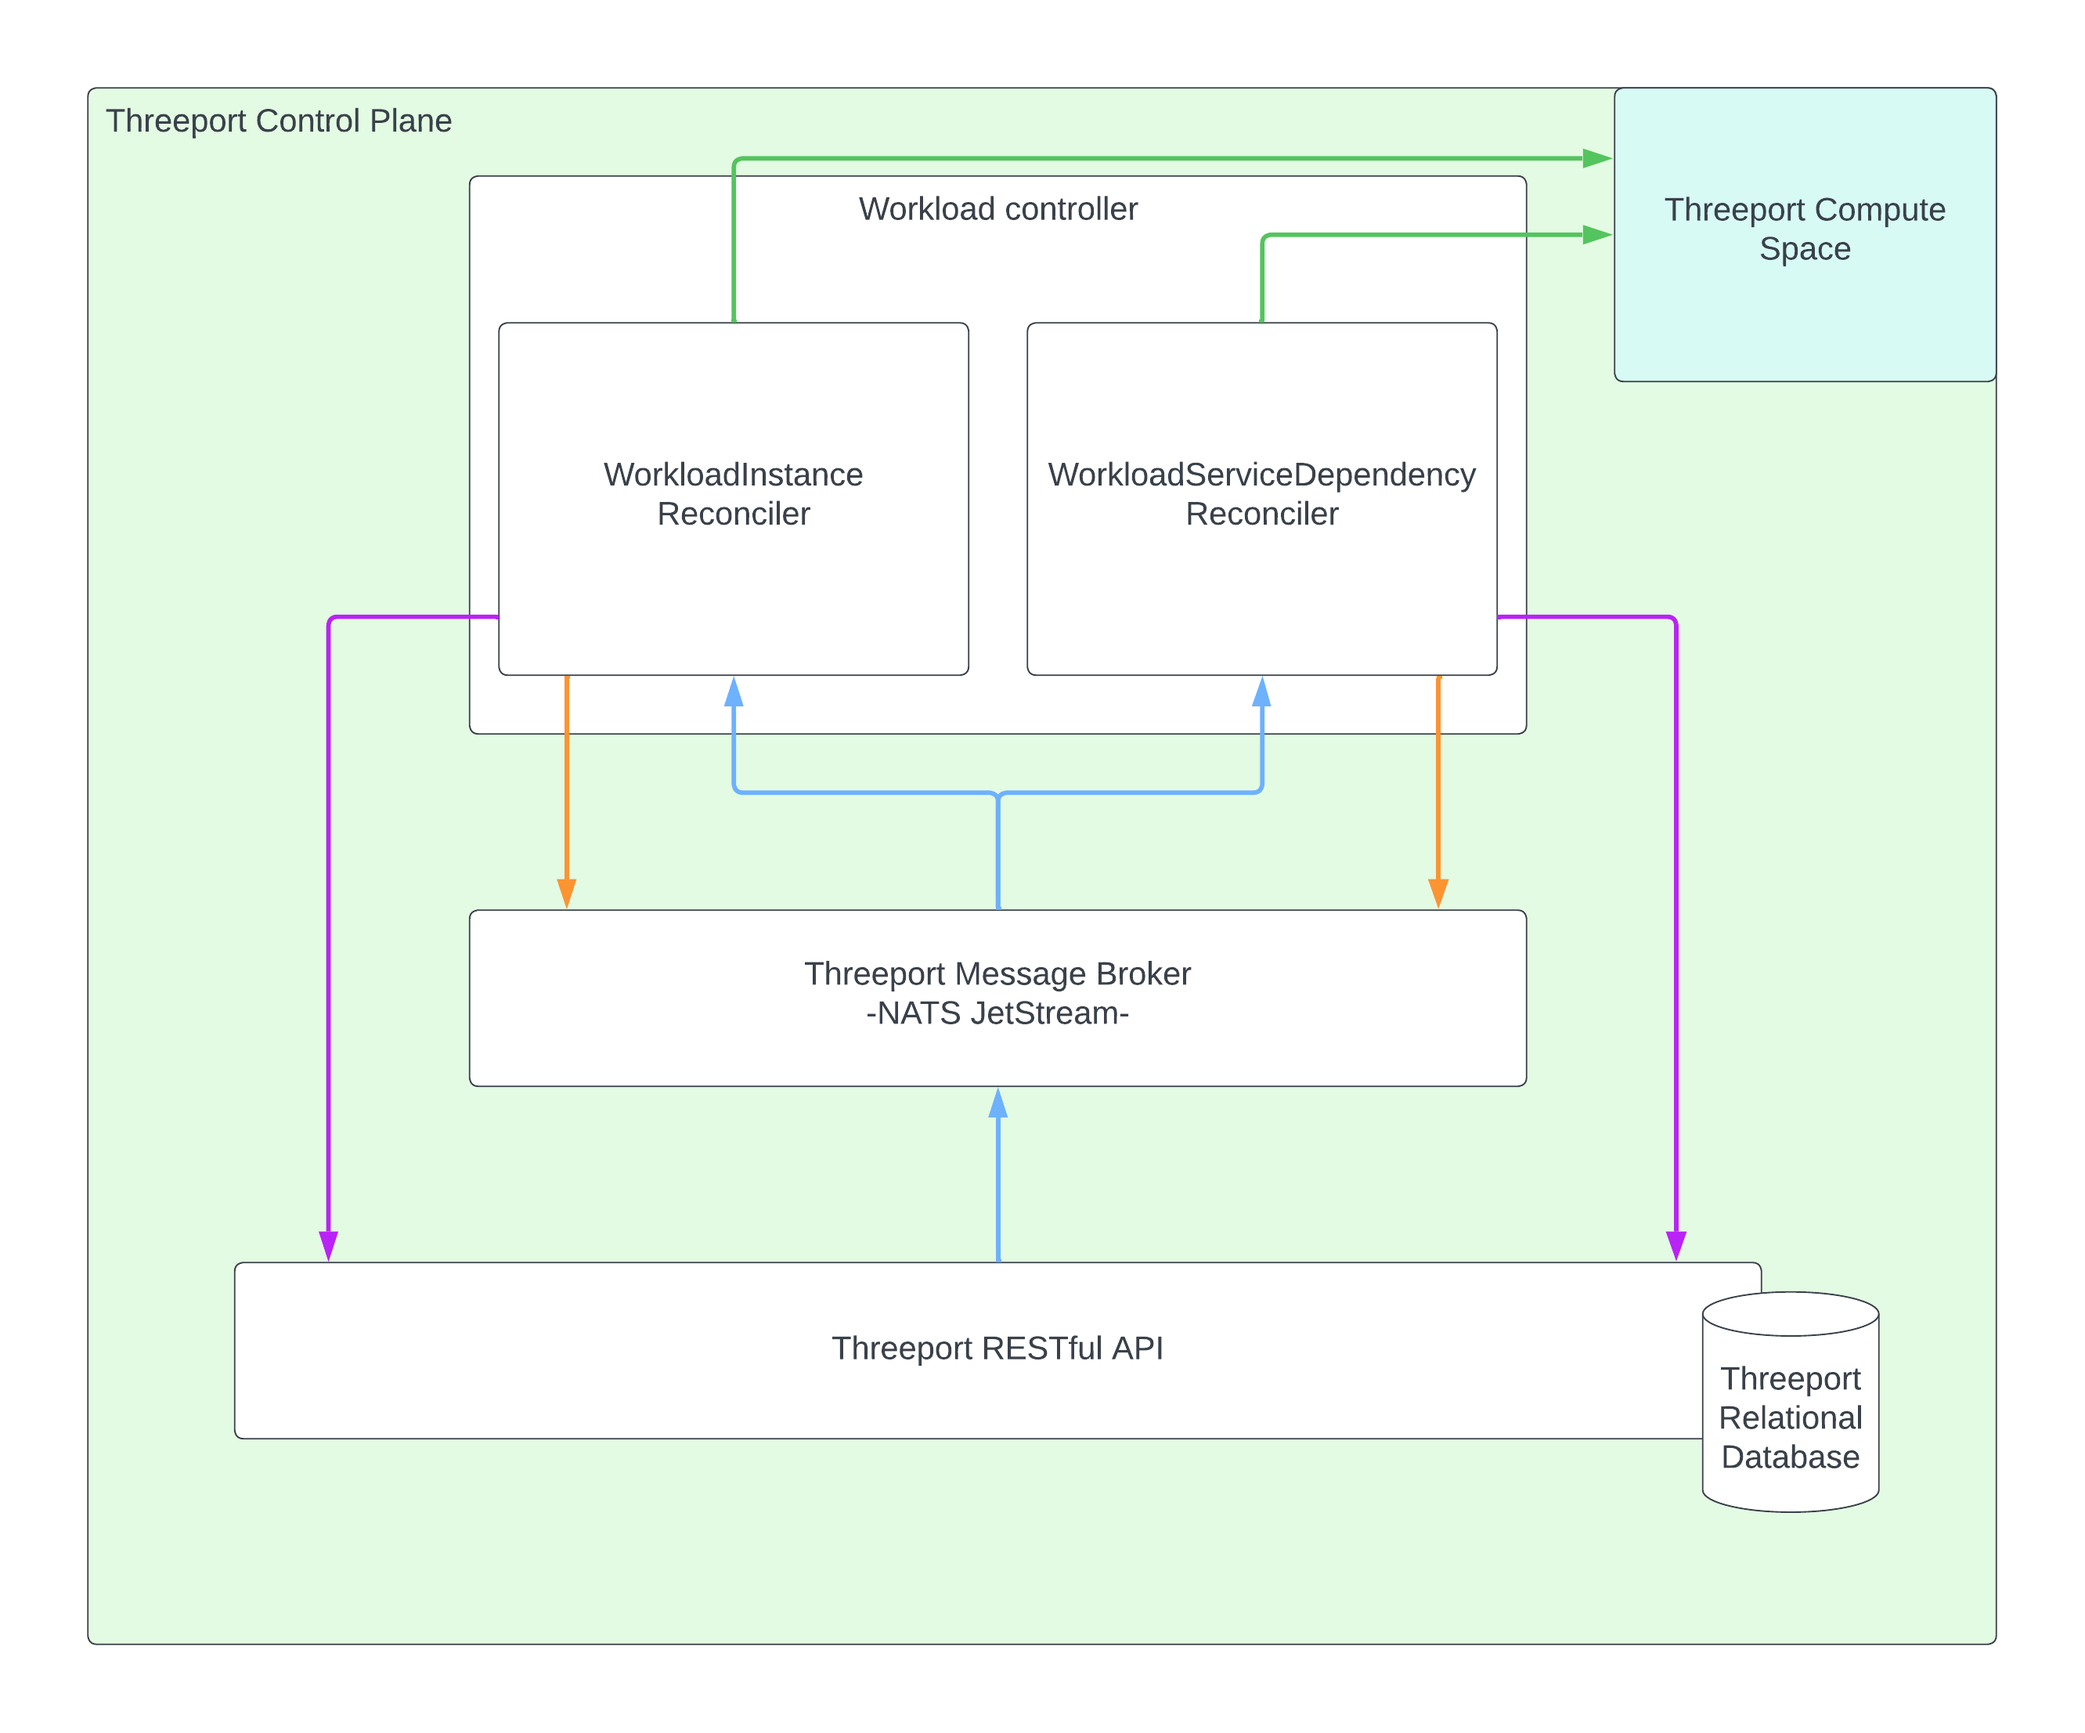
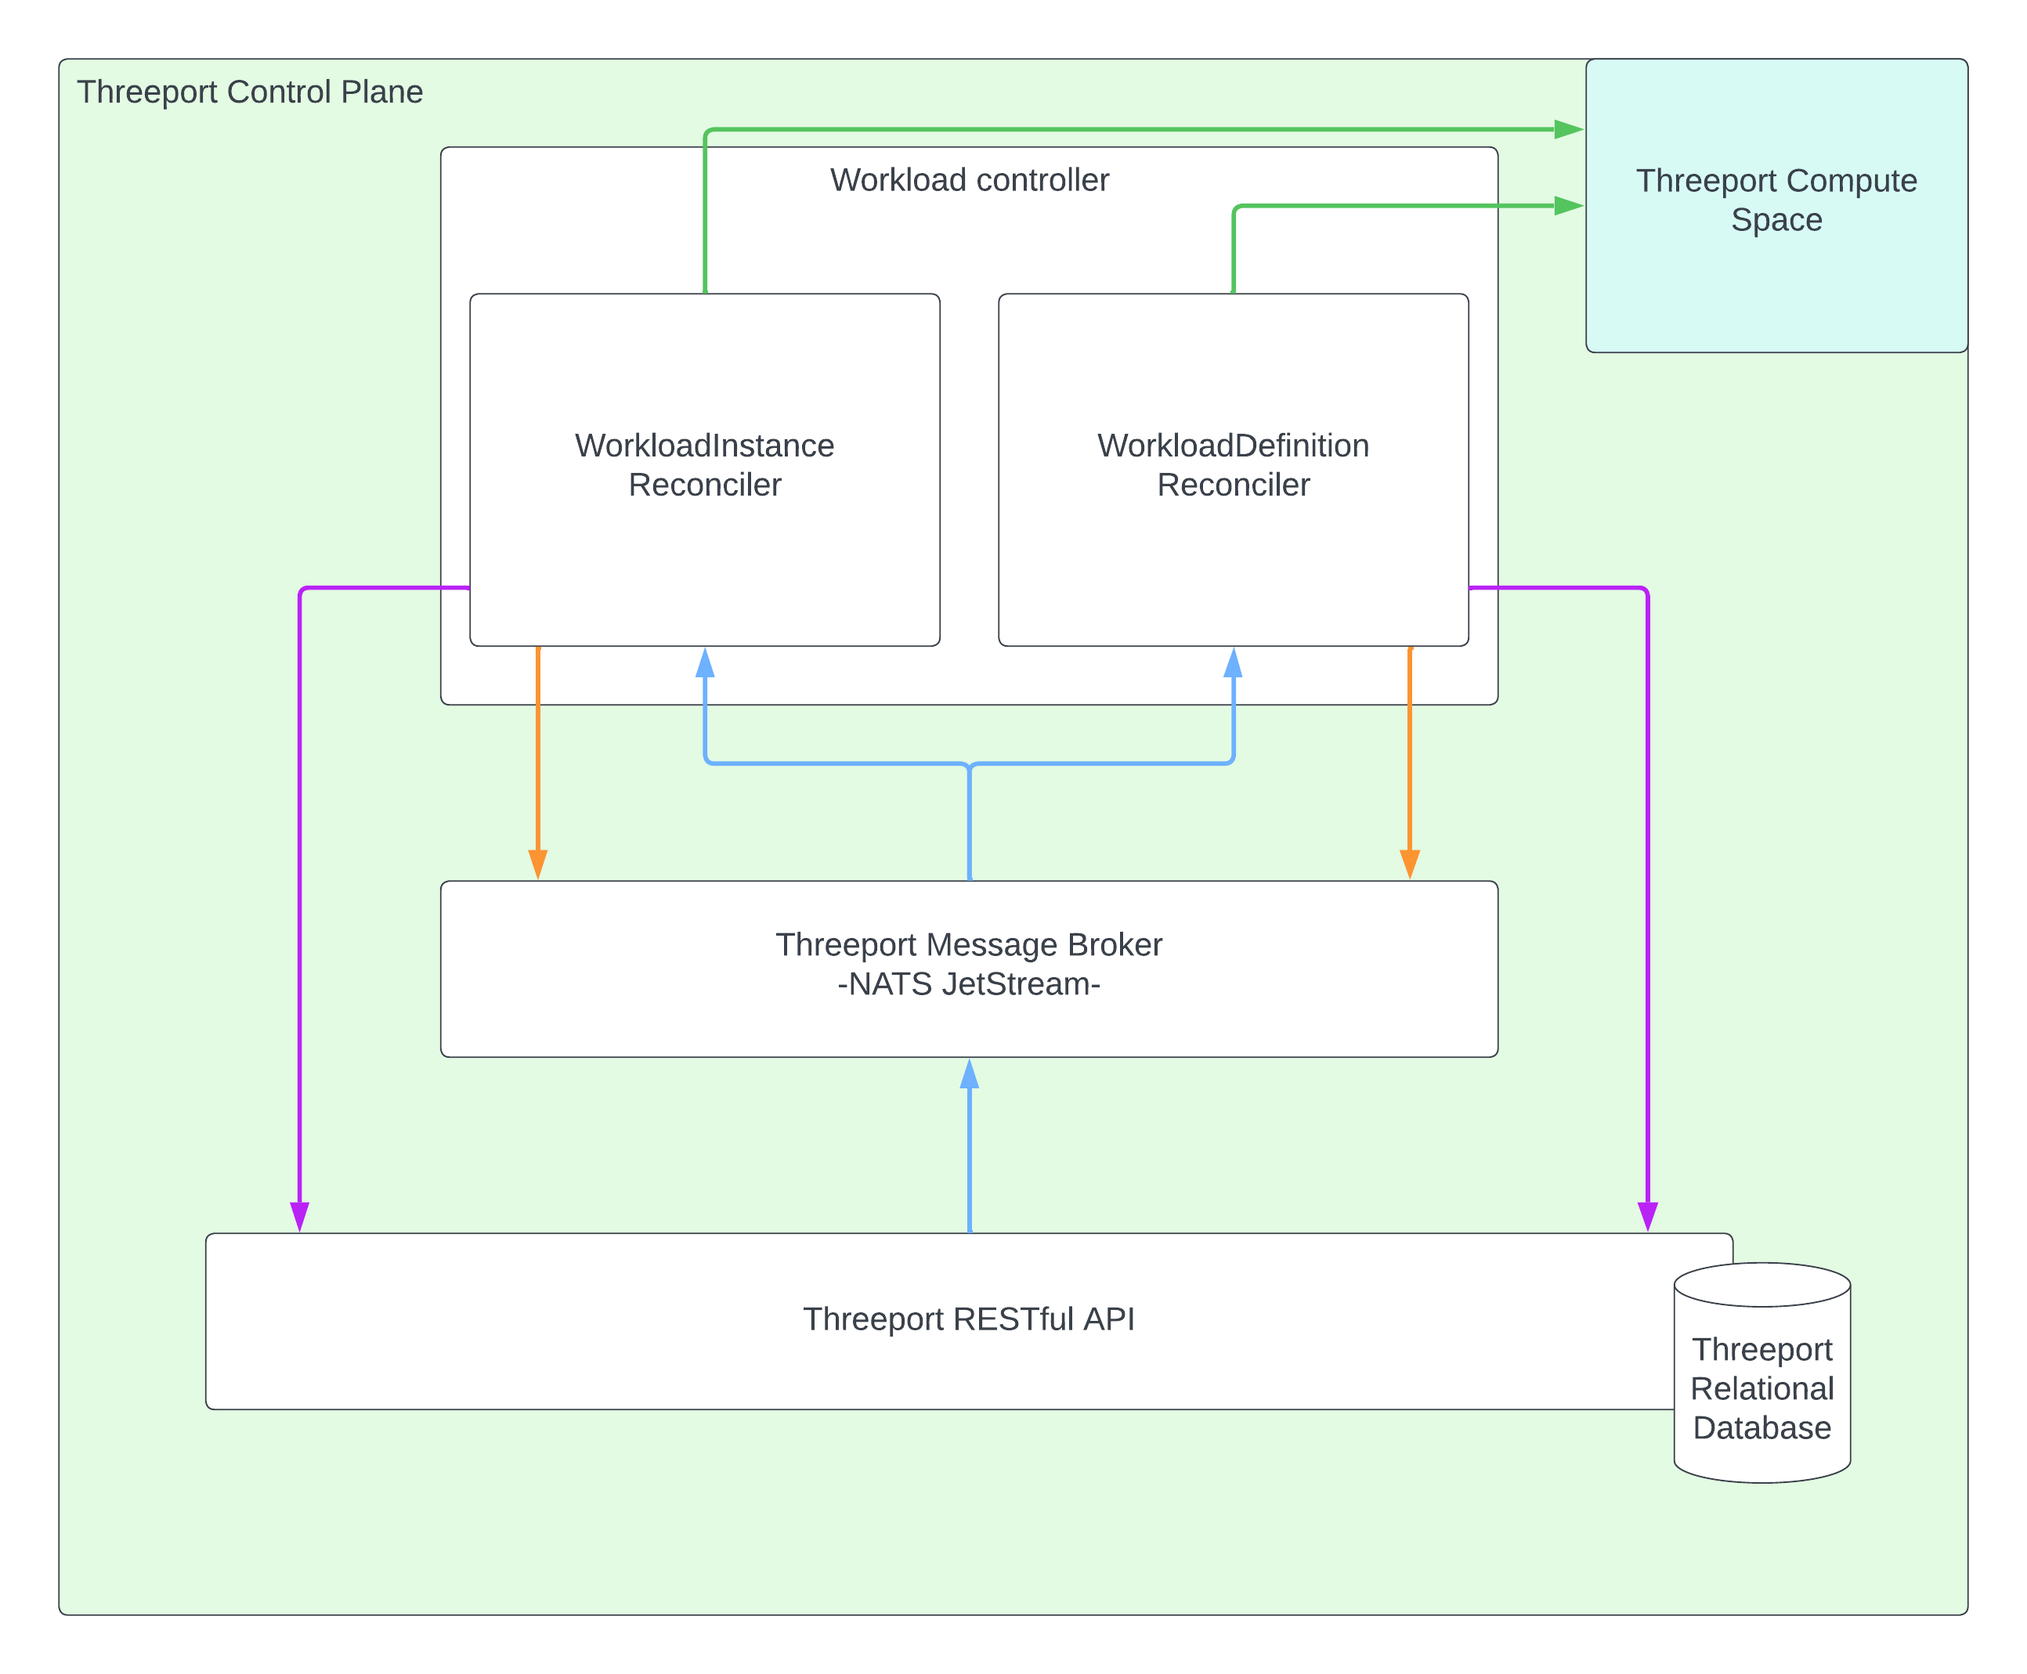
fix: remove WorkloadServiceDependency refs from architecture page

diff --git a/docs/architecture/workload-controllers.md b/docs/architecture/workload-controllers.md
@@ -9,31 +9,27 @@ the action and updates the status of the object in the API.
 
 ![Workload Controller](../img/WorkloadController.png)
 
-1. A developer requests a workload deployment and a service dependency for that
-   workload.  A WorkloadServiceDependency is Threeport mechanism for managing
-   back end services for workloads independently of the workload.  For an
-   example of how this works, see the [summary](guides/getting-started/#summary)
-   of our getting started guide.
-2. The API writes the new objects to the database.
-3. Once persisted the API notifies the message broker of the change, including
+1. A developer requests a workload and the API writes the new objects to the
+   database.
+2. Once persisted the API notifies the message broker of the change, including
    the database ID of the objects in question.
-4. The message broker delivers the notification to the correct Threeport
+3. The message broker delivers the notification to the correct Threeport
    controller.  If no Threeport controller is available immediately due to load
    or temporary outage, the NATS Jetstream broker holds the message until a
    Threeport controller instance becomes available.
-5. The Threeport controller puts a lock on the specific object by type and
+4. The Threeport controller puts a lock on the specific object by type and
    unique ID.  That way if another change is made to the same object before
    reconciliation is complete, the first change is completed and then the second
    change is executed so that race conditions don't develop.  In the event that
    a reconciliation cannot be completed, such as when a lock exists on a
    particular object, the notification is requeued through the broker so that it
    is performed at a later time.
-6. Reconciliation is completed.  In this case the workload will be deployed and
+5. Reconciliation is completed.  In this case the workload will be deployed and
    the configuration for the service dependency is applied through the
    Kubernetes API of the target cluster for the workload.
-7. Once the operation is successfully reconciled, the Workload controller
+6. Once the operation is successfully reconciled, the Workload controller
    updates the status of the object through the API.
-8. Finally, the Threeport controller releases the lock on the object instance so
+7. Finally, the Threeport controller releases the lock on the object instance so
    that it may undergo any future reconciliation.
 
 ## Reconcilers
